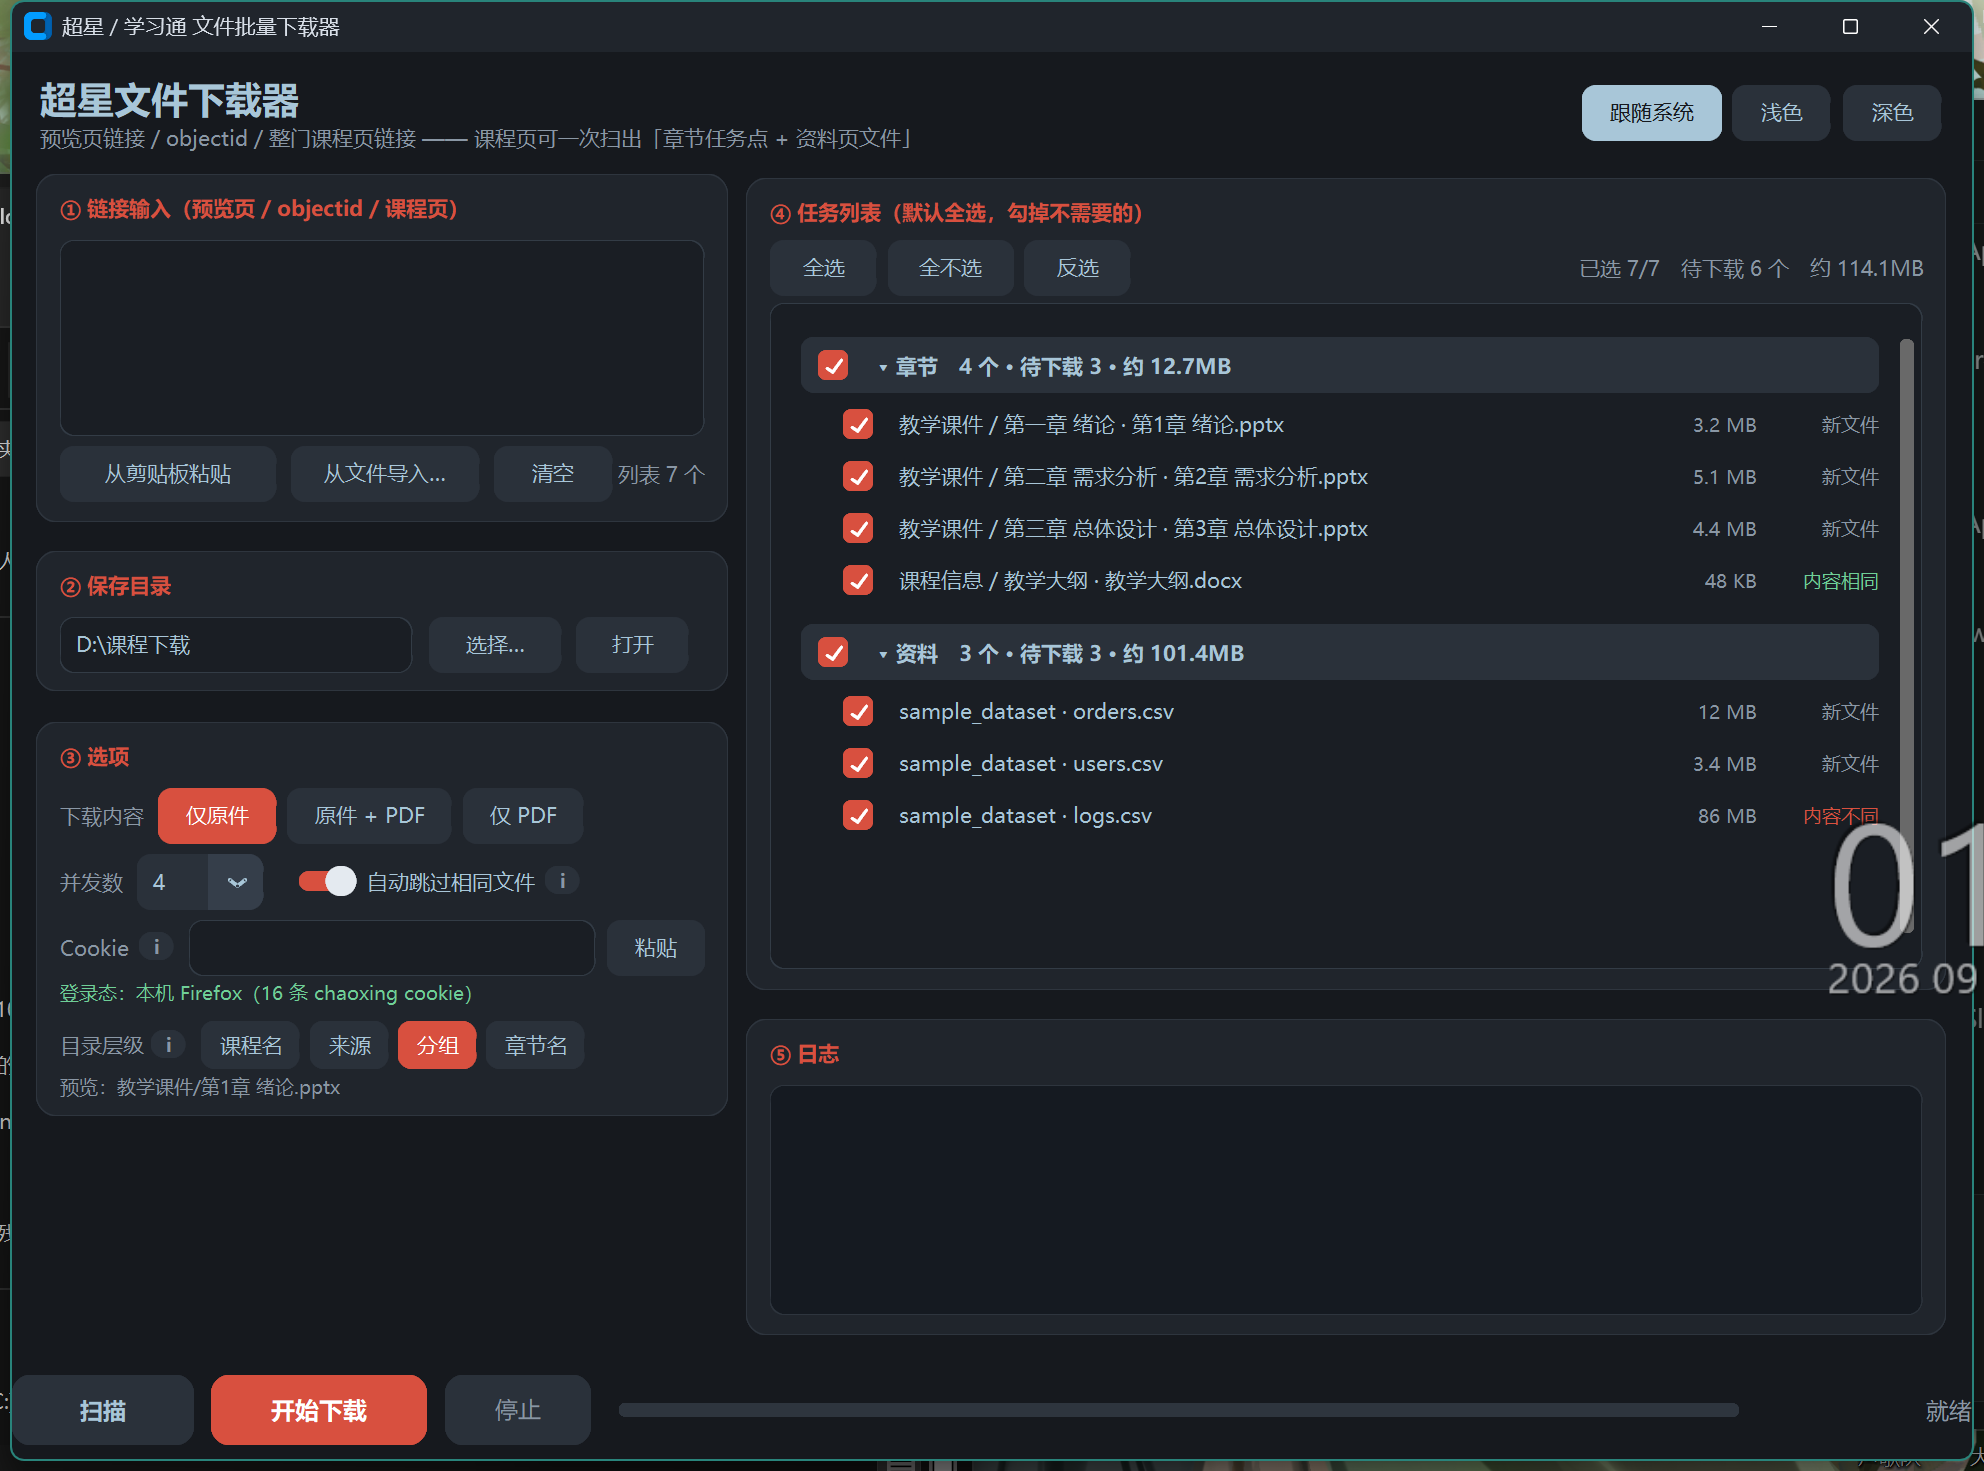
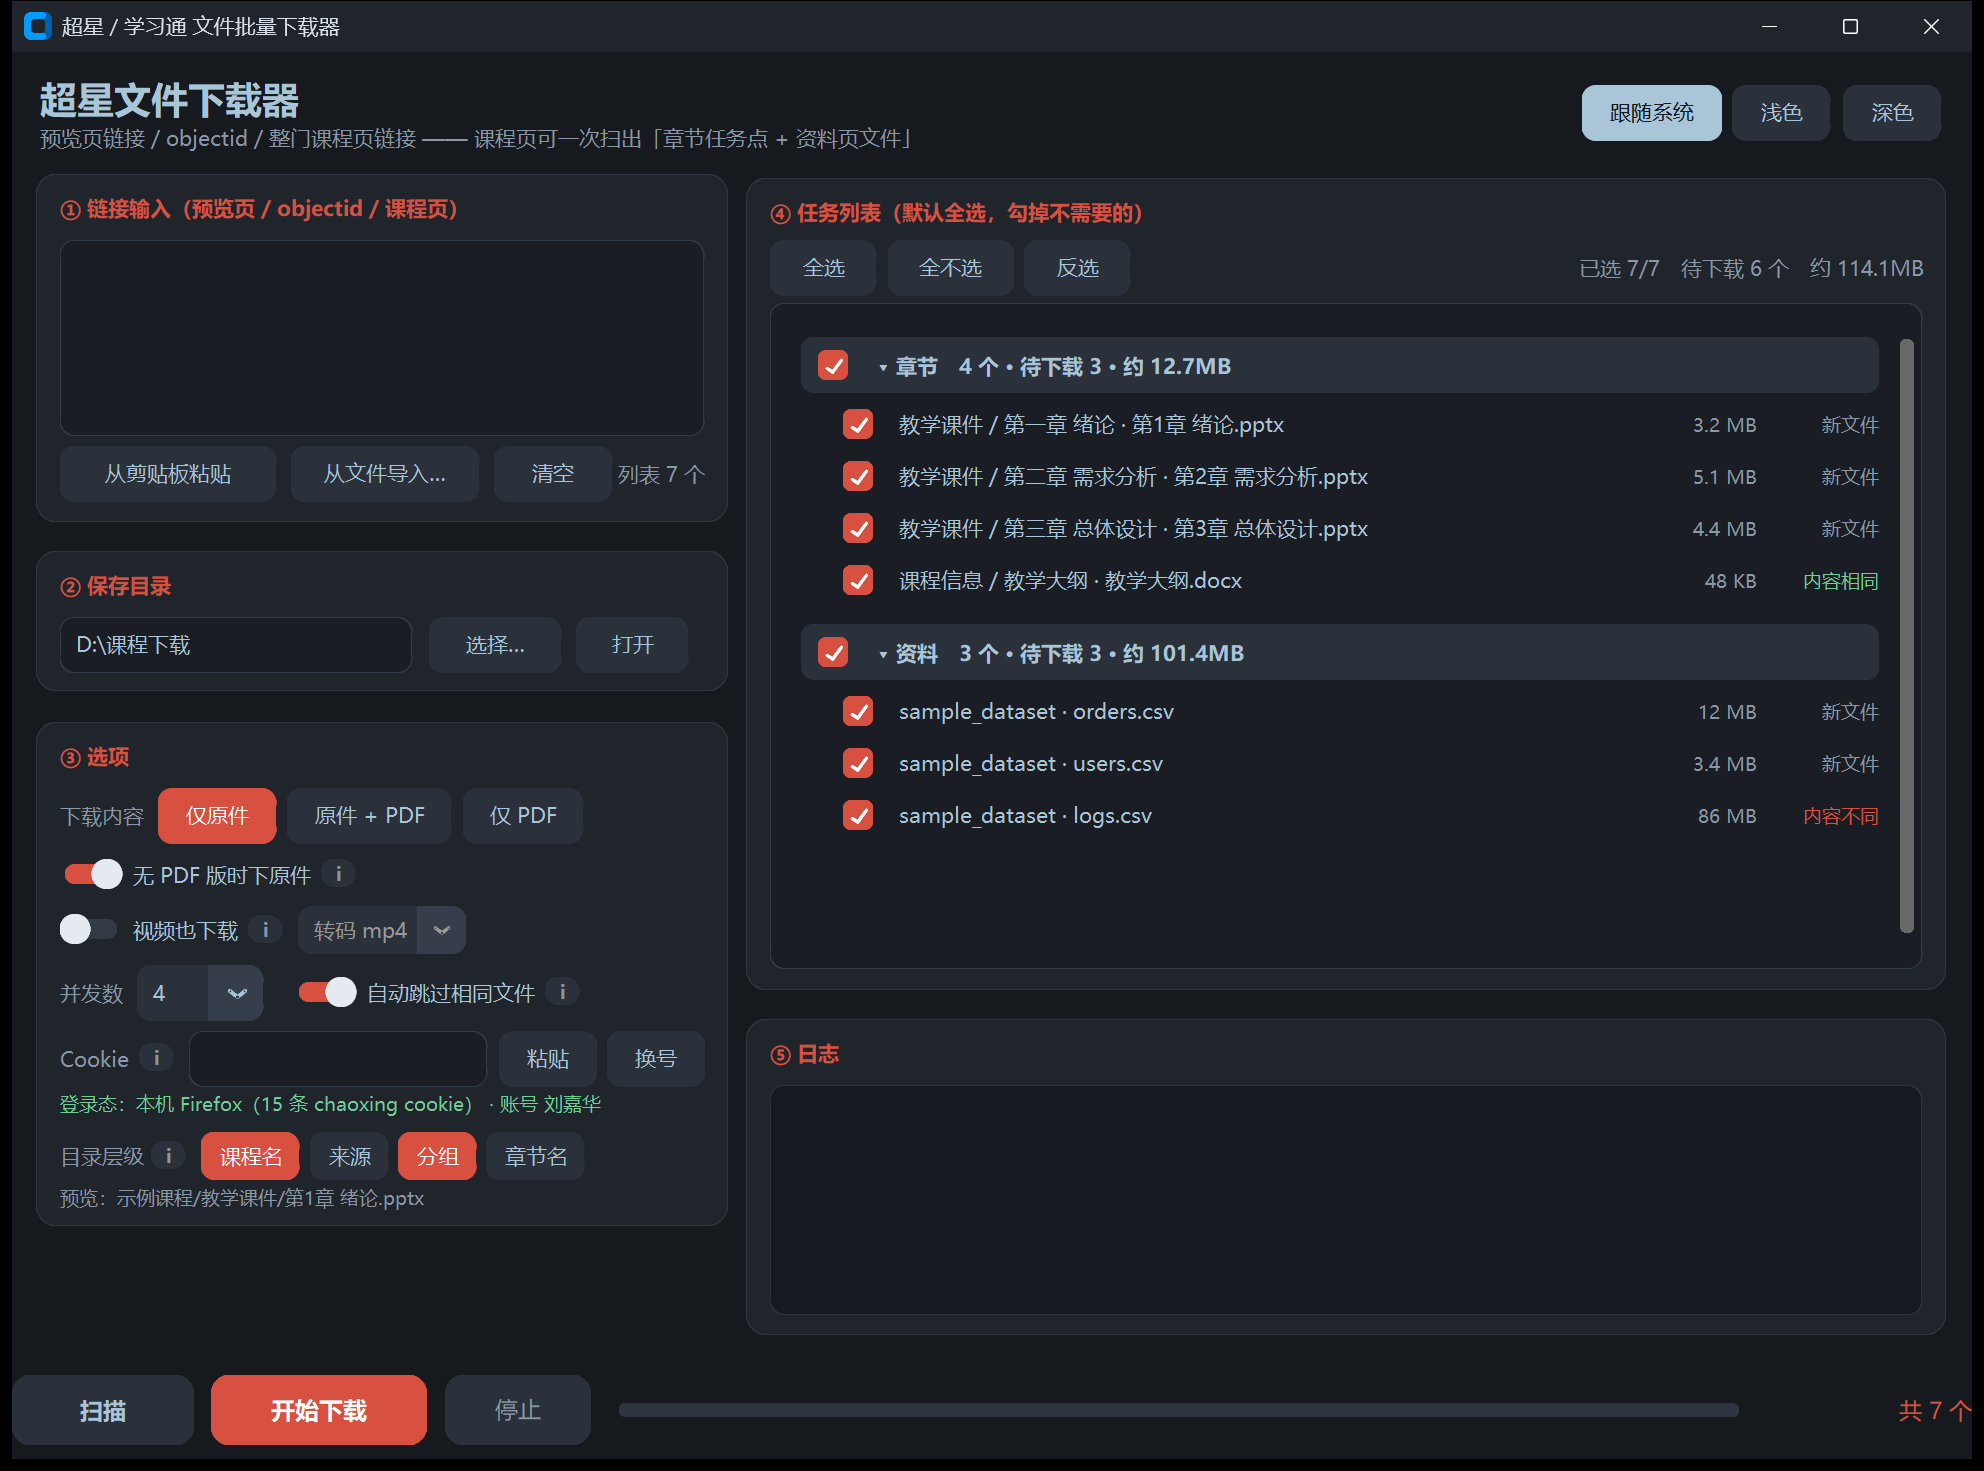
文档: v1.2.0 说明补齐（README / 问题记录 / 截图）
- README: 功能表、选项说明、CLI 参数、换账号、FAQ、已知限制、技术备忘
- 新增 docs/问题记录/ 目录与三篇记录（附件漏抓、重扫全标新文件、视频下载口）
- 截图换成窗口抓取，不再混进桌面内容

diff --git a/README.md b/README.md
@@ -26,10 +26,13 @@
 | | |
 | --- | --- |
 | **两个入口一起扫** | 章节任务点 + 「资料」页（递归展开文件夹） |
+| **附件解析跟得上改版** | 学习通三种模板（`ans-attach-online` / `ans-attach-ct` / `insertdoc`）都认，不靠 class 名 |
 | **先扫再挑** | 列表默认全选，不需要的取消勾选 |
 | **按来源分组** | 「章节」「资料」两组，可折叠，组头显示个数 / 体积 / 待下载数 |
-| **自动查重** | 本地已有且**内容相同**的文件自动跳过；换过目录/层级则交给字节数校验兜底 |
-| **原件 / PDF** | 可只下原件、只下 PDF、或两个都要 |
+| **自动查重** | 本地已有且**内容相同**的文件自动跳过；按实际落点（模式 + 层级）判定 |
+| **原件 / PDF** | 可只下原件、只下 PDF、或两个都要；「仅 PDF」时 csv/py 这类没 PDF 版的自动下原件 |
+| **视频可选** | 默认跳过；打开后可选取**转码 mp4**（小、能直接播）或**原件**（画质最好、体积大） |
+| **账号看得见** | 登录态那行显示当前账号姓名，旁边「换号」一键切回 Firefox 登录态 |
 | **目录层级可选** | 课程名 / 来源 / 分组 / 章节名，四级自由勾选，实时预览落点 |
 | **命令行版** | `cx_download.py` 只用标准库，可以塞进脚本里 |
 | **可打包** | 一条 `build.ps1` 出单文件 exe，自带冻结自检 |
@@ -288,7 +291,7 @@ docs/                       README 用的截图
 | v6 | `历史版本/分组折叠-v6-20260917/` | 任务列表按来源分组可折叠；目录层级可选；修「扫完改保存目录不生效」 |
 | v7 | `历史版本/登录态引导-v7-20260917/` | 登录态引导弹窗、Cookie 一键粘贴、ⓘ 悬停说明 |
 | v8 | `历史版本/多平台发行-v8-20260921/` | 适配 macOS / Linux：Firefox 路径、字体、`xdg-open` 跨平台；加 `build.sh` 与三平台 CI |
-| v11 | `历史版本/附件解析修复-v11-20261021/` | 附件不再按 class 名抓（学习通三种写法，旧逻辑漏 41/57）；登录态显示账号名、加「换号」 |
+| v11 | `历史版本/附件解析修复-v11-20261021/` | 附件不再按 class 名抓（学习通三种写法，旧逻辑漏 41/57）；查重按实际落点；视频下载；账号名显示 +「换号」 |
 
 ---
 
@@ -308,6 +311,13 @@ docs/                       README 用的截图
   挂到 Toplevel 上的话窗口项不渲染，表现为气泡是空的一块。
 - **`_fit_geometry` 只设尺寸不够**：窗口默认由系统随便摆，高一点的会被摆到屏幕外，
   底部按钮就看不见了 —— 得连位置一起算并夹在屏幕内。
+- **章节附件有三种 HTML 写法**（老 `ans-attach-online`、新 `ans-attach-ct` 套
+  `downloadfile` iframe、编辑器插的 `ans-insertdoc-retract`），按 class 名认会漏一大半。
+  现在统一抓 `data="{...objectid...}"` 再解析 JSON，按 objectid 去重。
+- **视频任务点的状态字段和文档不一样**：有 `http`（转码 mp4，几十 MB）、`download`
+  （原件，几百 MB）、`dtoken`/`duration`/`mp3`，但没有 `download/pdf` 这套文档地址。
+- **查重要按「实际落盘路径」算**：模式（`仅 PDF` 落 `.pdf`）+ 目录层级（分组/章节子目录）
+  任一不同，都会导致「明明下过却全标新文件」。
 
 ---
 
@@ -319,8 +329,11 @@ docs/                       README 用的截图
 | macOS 报 `Bad CPU type in executable` | Intel Mac 跑不了 arm64 的包，改用「方式二：跑源码」 |
 | 双击没反应 / 一闪而过 | 它不是 `.app`，请在**终端**里运行，才能看到界面和报错 |
 | 扫出来 0 个文件 / 提示需要登录 | 先解决登录态；课程链接要带 `enc` 参数 |
-| 课程里有视频却扫不到 | 只抓文档类任务点，视频 / 测验 / 讨论没有可下载文件 |
-| 之前下过又重下 | 查重按「当前保存目录 + 层级勾选」算，改了目录 / 层级会重算；命令行可加 `--overwrite` 强制重下 |
+| 课程里有视频却扫不到 | 视频任务点默认跳过，去选项里打开「视频也下载」；打开后能选转码 mp4 或原件 |
+| 明明下过，重扫还是全标「新文件」 | 查重按「保存目录 + 层级勾选 + 下载模式」算，三者任一变了就重算；v1.2.0 起会按 `.pdf` 落盘名和分组子目录去找 |
+| 之前下过又重下 | 同上；命令行可加 `--overwrite` 强制重下 |
+| 「仅 PDF」时 csv/py/xlsx 全失败 | v1.2.0 起默认下原件（选项「无 PDF 版时下原件」）；关掉则标「跳过」 |
+| 下出来的是别人的课 / 课程列表不对 | 看登录态那行显示的账号名，点「换号」清掉手动 Cookie 重新读 Firefox |
 | Cookie 又失效了 | Cookie 有时效，重新获取一次；用 Firefox 只要它还登录着就不用管 |
 | Safari / Chrome 能自动读登录态吗 | 不能，只自动读 Firefox；其它浏览器请手贴 Cookie |
 
@@ -328,8 +341,10 @@ docs/                       README 用的截图
 
 ## 已知限制
 
-- **只抓文档类任务点**（`ans-attach-online`：pptx / docx / pdf / xlsx 等）。
-  视频、测验、讨论没有可下载文件，会显示 0 个附件。
+- **视频要手动开**：视频任务点默认跳过，选项里打开「视频也下载」才下；取的是学习通
+  转码好的 mp4（几十 MB）或原件（几百 MB 到 1GB）。测验、讨论仍然没有可下载文件。
+- **附件解析靠 `data` 属性**：学习通换模板时只要仍带 `data="{...objectid...}"` 就能认；
+  真改成完全不同的结构，还得跟着调（`ATTACH_DATA_RE`）。
 - **查重是「字节数 + 前 64KB md5」**，理论上存在前 64KB 相同、总字节数也相同的
   不同文件被误判 —— 对课件场景可以忽略。
 - **不支持 Chrome / Edge 自动读 cookie**，也不打算做：Chrome 127+ 的

diff --git a/docs/问题记录/2026-10-21-视频下载口.md b/docs/问题记录/2026-10-21-视频下载口.md
@@ -1,0 +1,46 @@
+# 2026-10-21　视频任务点为什么跳过、后来怎么加的口子
+
+## 为什么一直跳过
+
+视频任务点在章节页里的对象和文档不是一套：
+
+```json
+{
+  "objectid": "ad7e…ffa1", "filename": "1.mov", "length": 849054495,
+  "http":     "https://s2.cldisk.com/sv-w8/video/…/sd.mp4?at_=…&ak_=…&ad_=…",
+  "download": "http://d0.cldisk.com/download/ad7e…?at_=…",
+  "dtoken": "3560…", "duration": 821,
+  "mp3": "https://s2.cldisk.com/sv-w8/video/…/mp3/",
+  "screenshot": "…/snapshot.jpg", "thumbnails": "…/thumbnails/"
+}
+```
+
+它**没有 `pdf`**（文档那套转码），早期代码在「没有可下地址」时按「视频，不支持」标跳过，
+后来即使有了 `download`，只要模式是「仅 PDF」也一样被跳过。所以表现是「视频永远不下载」。
+
+## 两种取法的差别（实测同一门课）
+
+| 文件 | 转码 mp4（`http`） | 原件（`download`） | 比值 |
+| --- | --- | --- | --- |
+| 1.mov | 33.8 MB | 809.7 MB | 24x |
+| 2.mov | 41.5 MB | 360.9 MB | 8.7x |
+| 课堂练习.mp4 | 19.1 MB | 133.9 MB | 7.0x |
+| C23时间序列基本性质1(1).mp4 | 12.8 MB | 87.3 MB | 6.8x |
+
+- **转码 mp4**：服务端压过的，普通播放器直接放，画质被压（一般 480p/720p 级）。
+- **原件**：老师上传的那份，画质码率最好；`.mov` 在 Windows 上可能要 VLC/PotPlayer。
+
+## 实现
+
+- `process_one(..., want_video, video_original)`：
+  - `video_original` → 取 `download`，存原名（`.mov`）；
+  - 否则取 `http`，存 `<stem>.mp4`；
+  - 没有 `http` 的视频自动退回 `download`，不报失败。
+- GUI：选项区「视频也下载」开关 + 「转码 mp4 / 原件」下拉（关闭时下拉置灰）。
+- CLI：`--video` / `--video-original`。
+
+## 验证
+
+- 转码分支：35.4 MB / 10.7 s，落 `1.mp4`（URL 为 `sd.mp4`）。
+- 原件分支：URL 为 `download/<objectid>`，落 `1.mov`（只验了地址选择，没真下 800MB）。
+- 31 个视频里个别没有 `http`（如 `3.mov`、`课堂内容.mp4`），走的是退回原件的路径。

diff --git a/docs/问题记录/2026-10-21-重扫全标新文件.md b/docs/问题记录/2026-10-21-重扫全标新文件.md
@@ -1,0 +1,44 @@
+# 2026-10-21　重扫全标「新文件」、自动跳过失效
+
+## 现象
+
+修好附件漏抓后，用户下完 43 个文件再重扫，**99 个全标「新文件」**，自动跳过一次都没生效。
+
+## 定位
+
+落盘结构（仅 PDF 模式 + 课程名/分组两级）：
+
+```
+保存目录\课程名\基础信息\xxx.pdf
+```
+
+而查重走的是 `resolve_course_files()`：
+
+```python
+f["target"] = predict_name(f["name"], key)          # 原名 xxx.docx
+f["path"]   = os.path.join(outdir, f["target"])     # outdir = 保存目录\课程名
+f["exists"] = os.path.exists(f["path"])
+```
+
+两处对不上：
+
+1. **名字**：仅 PDF 模式落的是 `<stem>.pdf`，查重找 `<原名>.docx`；
+2. **目录**：文件在「分组 / 章节」子目录里，查重只在课程根目录找。
+
+于是本地明明有，`exists` 恒为 False —— 界面全标「新文件」，自动跳过形同虚设。
+
+## 修复
+
+- 两种候选名都看：`[原件名, <stem>.pdf]`，顺序按当前模式决定；
+- 新增 `dir_of` 回调，按当前层级勾选算每项落点（GUI 用 `course_path()`）；
+- 命中的是 PDF 转码时，比内容改用 `pdf` 地址（拿原件比字节数永远不等）；
+- 下载模式进 `scan_key`：换模式 = 查重结果作废，重扫时重新判定。
+
+## 验证
+
+同一门课、同一保存目录、仅 PDF + 课程名/分组：
+
+| | 结果 |
+| --- | --- |
+| 修复前 | 99 个全「新文件」 |
+| 修复后 | 68 个「已存在且相同」，31 个新（31 个视频 + 之前失败项） |

diff --git a/docs/问题记录/README.md b/docs/问题记录/README.md
@@ -1,0 +1,12 @@
+# 问题记录
+
+按日期记「用户报的现象 → 定位 → 根因 → 修复 → 验证」。目的是下次同类问题能直接翻到，
+不用重新摸一遍接口。
+
+| 日期 | 问题 | 结论一句话 |
+| --- | --- | --- |
+| 2026-10-21 | [章节附件漏抓](2026-10-21-章节附件漏抓.md) | 学习通三种附件写法，按 class 名抓漏 41/57，改成扫 `data` JSON |
+| 2026-10-21 | [重扫全标「新文件」](2026-10-21-重扫全标新文件.md) | 查重没按「`.pdf` 落盘名 + 分组子目录」找，自动跳过失效 |
+| 2026-10-21 | [视频下载口](2026-10-21-视频下载口.md) | 视频有 `http`（转码 mp4）与 `download`（原件），加开关与二选一 |
+
+对应的源码快照在 `历史版本/`，用户可见变更在 `CHANGELOG.md`。
